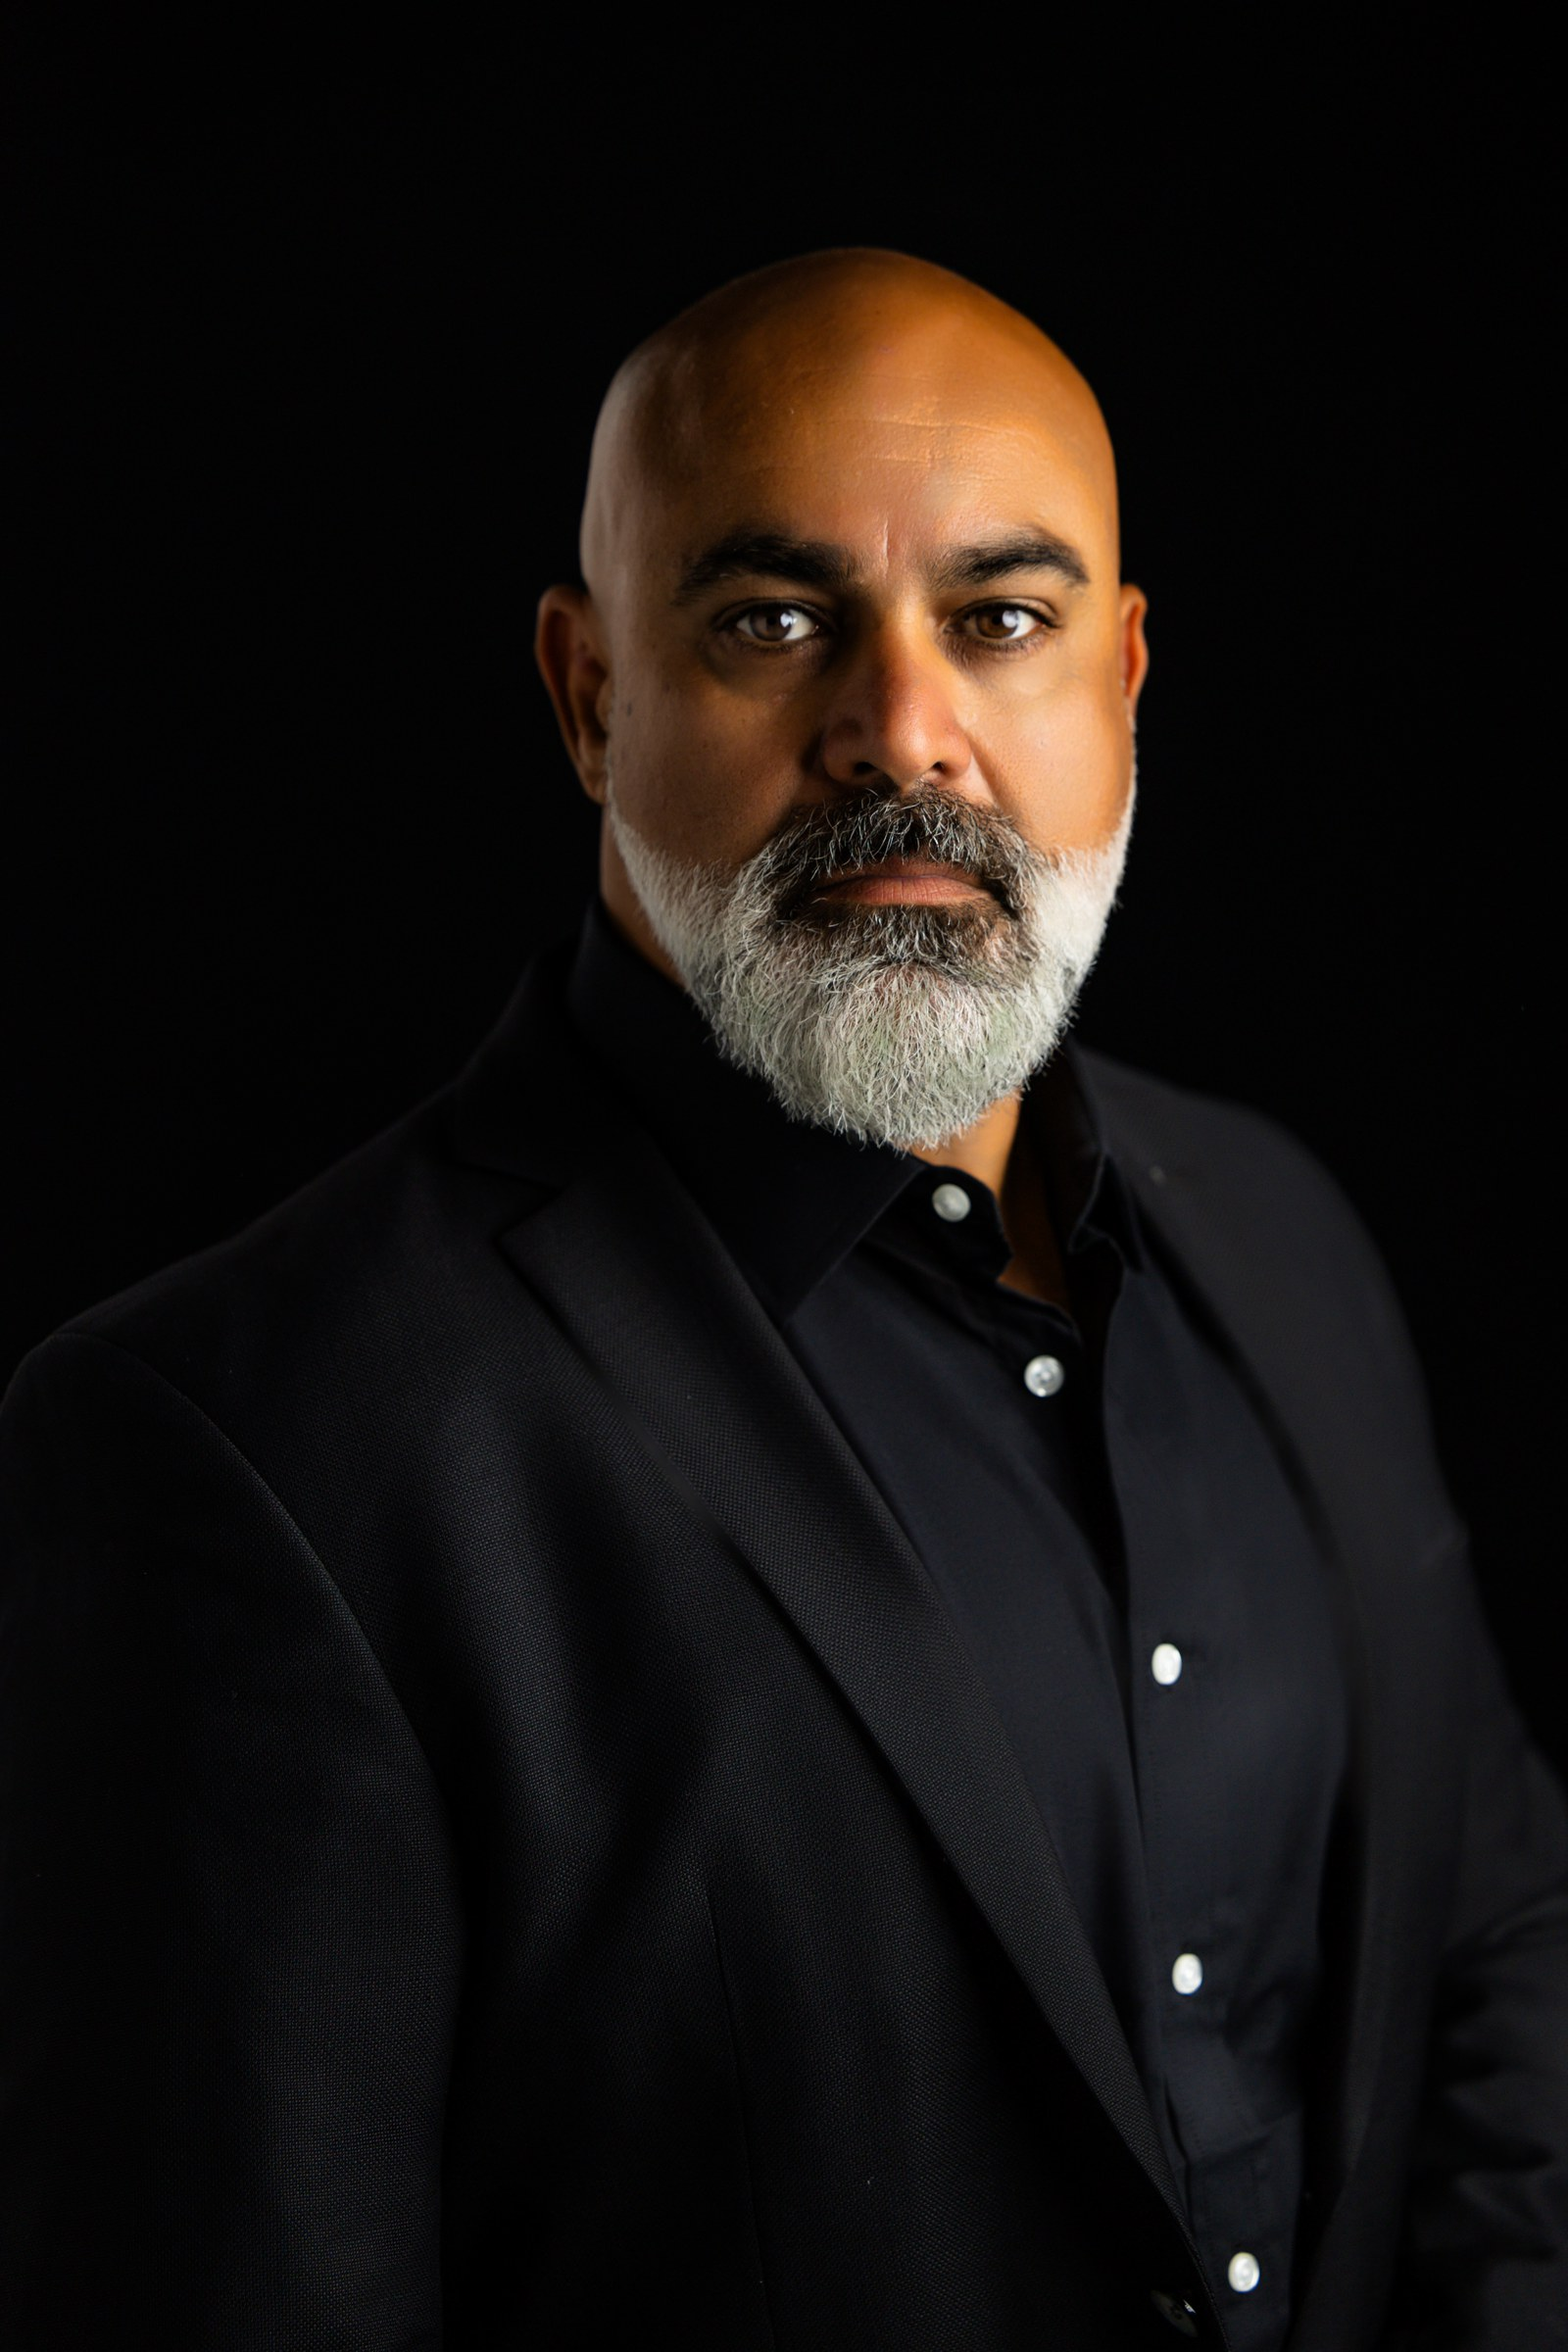
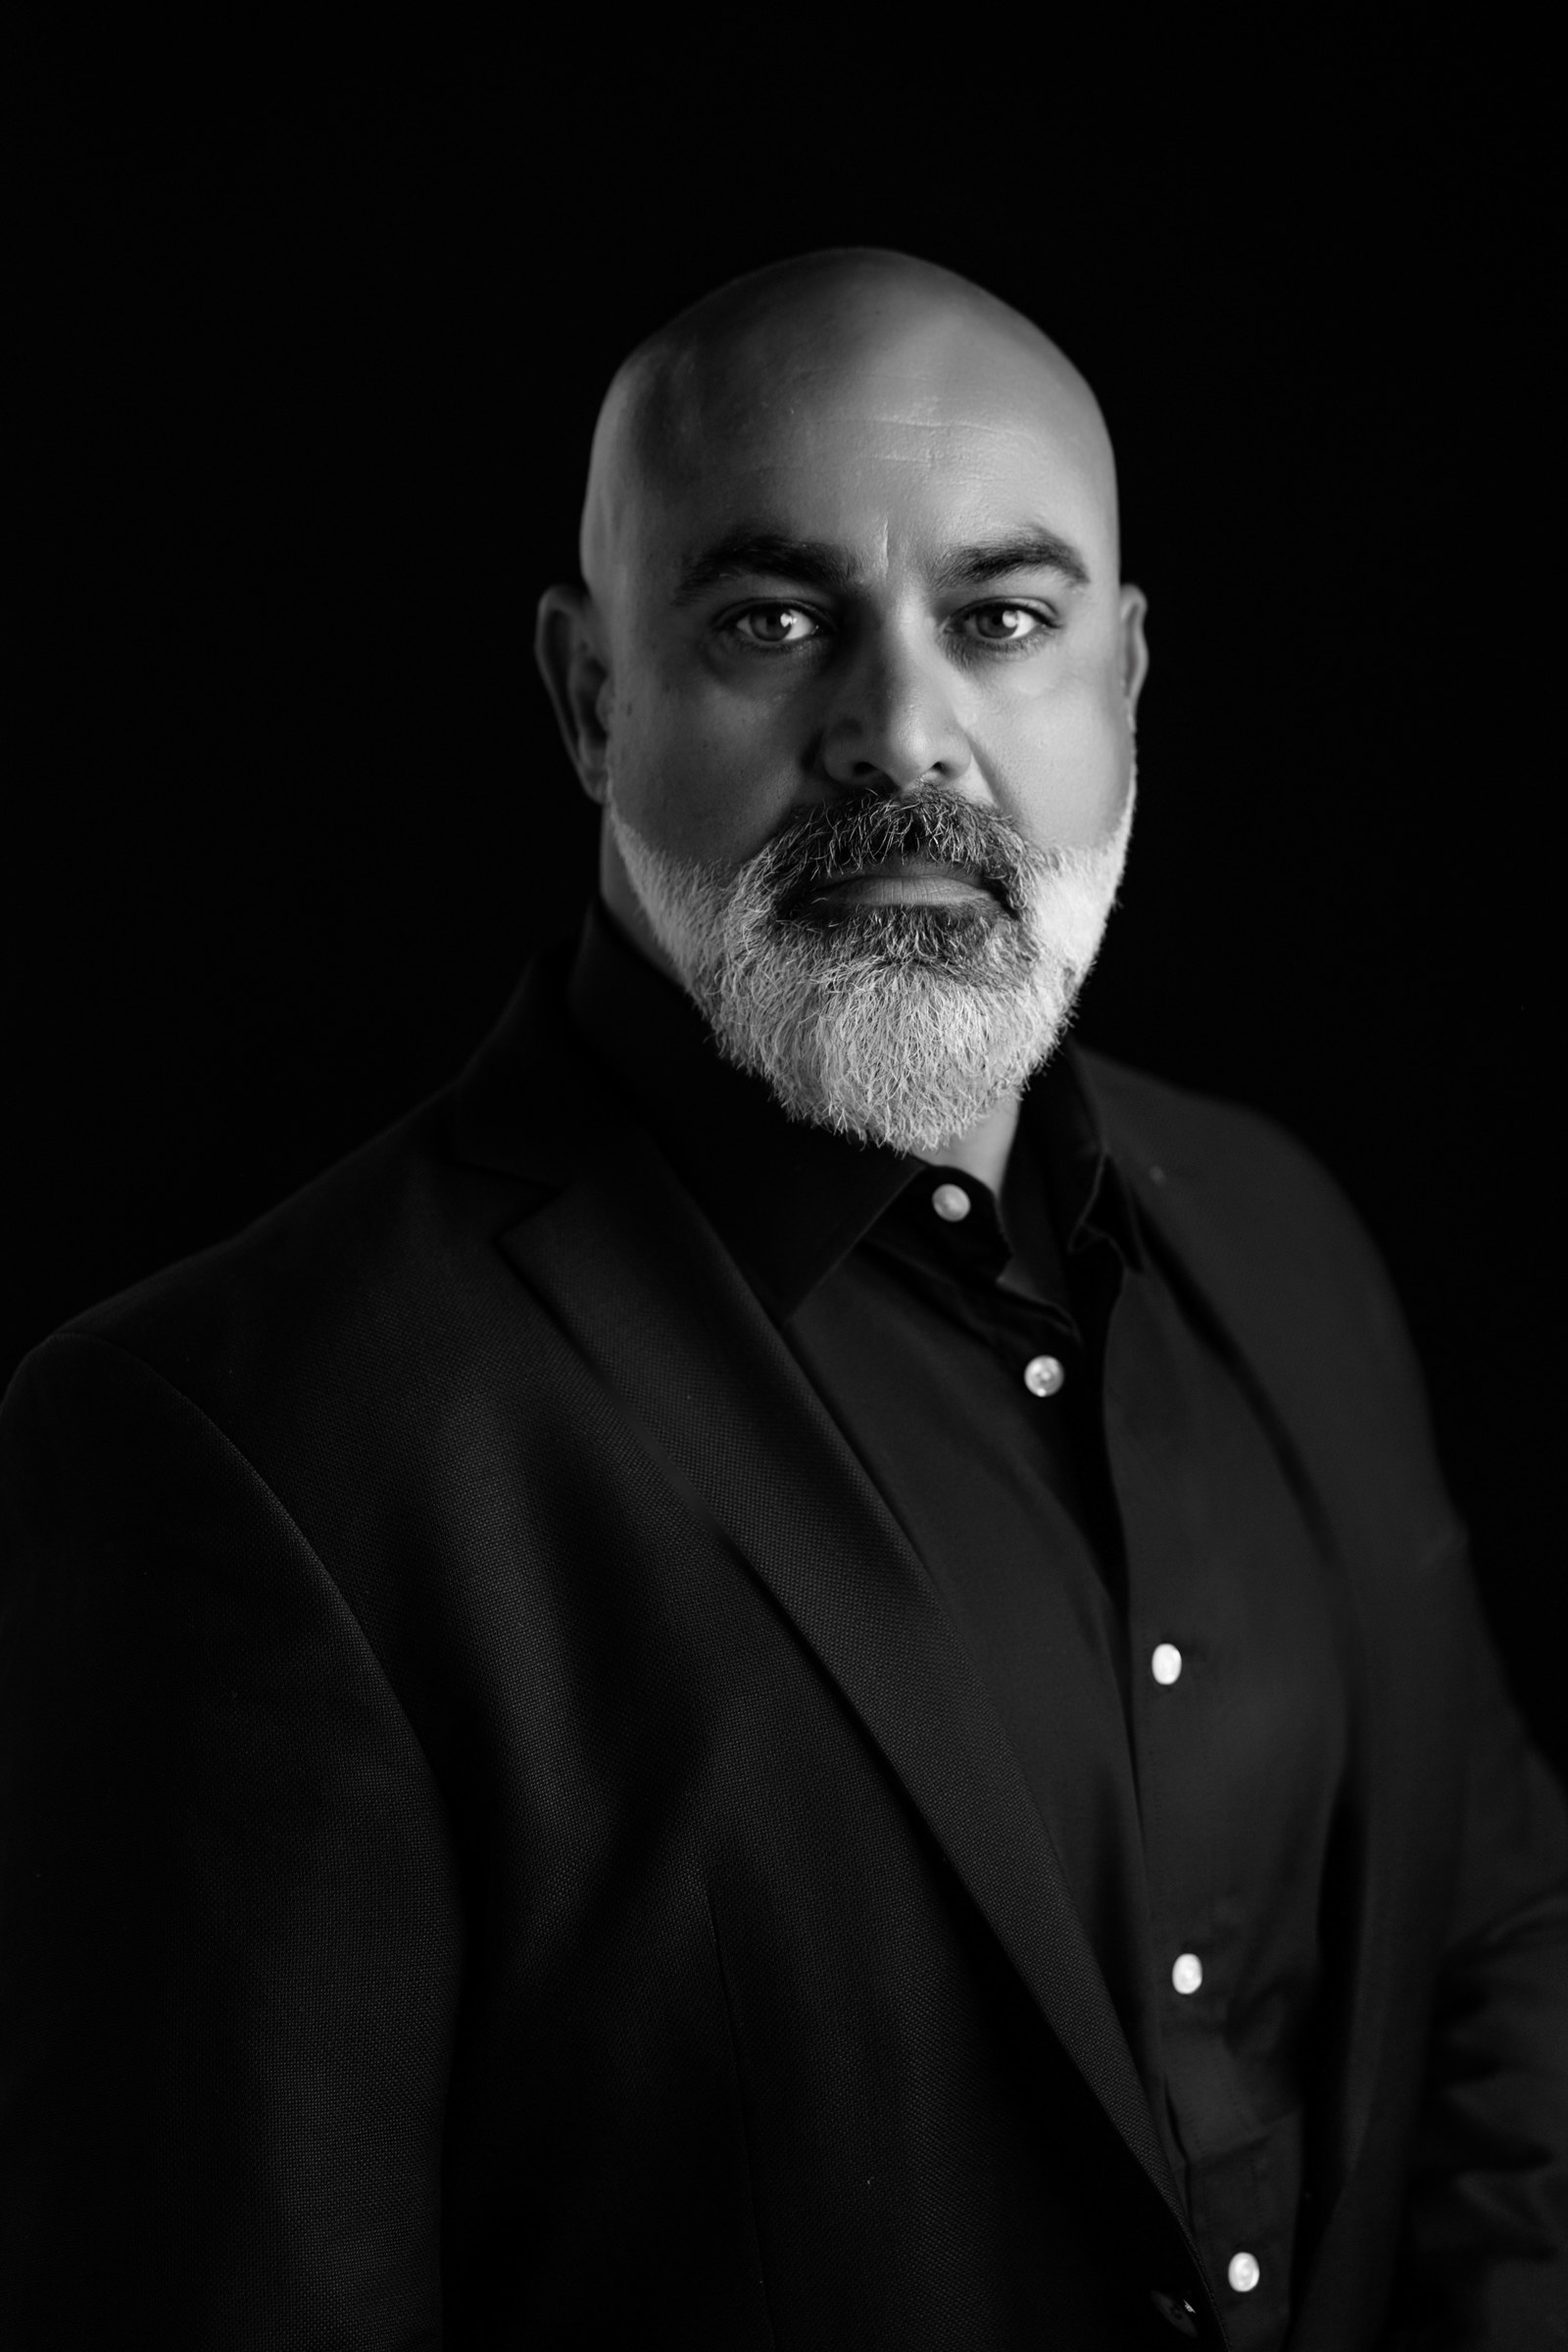
Add Projects/Events pages, restructure nav, add hero headline
- Nav: Home, About, Projects, Get Involved, Books, Events, Contact.
- New /projects page (moved the Ventures list off About, which now
  just links out to it) and a placeholder /events page.
- Home hero: dropped the giant "PARHAM SHARIAT" display headline
  (kept as a visually-hidden h1 for heading-hierarchy/SEO purposes),
  added an "Empower The Next Generation" headline next to the photo.
- About page now uses the b&w primary headshot.

Changed region(s): [[0.3438, 0.0938, 0.75, 0.4375], [0.5938, 0.4688, 0.6562, 0.5], [0.375, 0.375, 0.4062, 0.4062]]

diff --git a/src/app/page.tsx b/src/app/page.tsx
@@ -23,16 +23,12 @@ export default function HomePage() {
       {/* Hero — photo + featured book, side by side */}
       <section className="overflow-hidden bg-invert-bg text-invert-fg">
         <div className="mx-auto max-w-6xl px-4 py-16 sm:px-6 md:py-20">
+          <h1 className="sr-only">Parham Shariat</h1>
           <p className="text-xs font-semibold uppercase tracking-[0.3em] text-invert-fg/50">
             {siteConfig.tagline}
           </p>
-          <h1 className="mt-4 font-display text-7xl font-black uppercase leading-[0.88] tracking-tighter sm:text-8xl lg:text-9xl">
-            Parham
-            <br />
-            Shariat
-          </h1>
 
-          <div className="mt-12 grid items-start justify-center gap-10 sm:grid-cols-[auto_auto] sm:justify-start">
+          <div className="mt-8 grid items-start justify-center gap-10 sm:grid-cols-[auto_auto] sm:justify-start">
             <Image
               src="/images/parham-headshot-glasses-bw.png"
               alt="Portrait of Parham Shariat"
@@ -41,30 +37,39 @@ export default function HomePage() {
               priority
               className="h-[28rem] w-auto justify-self-center object-cover object-top sm:h-[28rem] sm:justify-self-start"
             />
-            <div className="flex flex-col items-center gap-5 sm:items-start">
-              <Image
-                src={featuredBook.coverImage.src}
-                alt={`Book cover for ${featuredBook.title}: ${featuredBook.subtitle}`}
-                width={featuredBook.coverImage.width}
-                height={featuredBook.coverImage.height}
-                className="h-[28rem] w-auto object-contain object-top shadow-2xl transition-transform duration-500 ease-out hover:-translate-y-2"
-              />
-              <div className="text-center sm:text-left">
-                <p className="font-display text-xl font-black uppercase tracking-tight">
-                  {featuredBook.title}
-                </p>
-                <p className="mt-1 text-sm text-invert-fg/60">
-                  {featuredBook.subtitle}
-                </p>
+            <div className="flex flex-col items-center gap-10 sm:items-start">
+              <p className="max-w-md text-center font-display text-5xl font-black uppercase leading-[0.9] tracking-tight sm:text-left sm:text-6xl">
+                Empower
+                <br />
+                The Next
+                <br />
+                Generation
+              </p>
+              <div className="flex flex-col items-center gap-5 sm:items-start">
+                <Image
+                  src={featuredBook.coverImage.src}
+                  alt={`Book cover for ${featuredBook.title}: ${featuredBook.subtitle}`}
+                  width={featuredBook.coverImage.width}
+                  height={featuredBook.coverImage.height}
+                  className="h-56 w-auto object-contain object-top shadow-2xl transition-transform duration-500 ease-out hover:-translate-y-2"
+                />
+                <div className="text-center sm:text-left">
+                  <p className="font-display text-xl font-black uppercase tracking-tight">
+                    {featuredBook.title}
+                  </p>
+                  <p className="mt-1 text-sm text-invert-fg/60">
+                    {featuredBook.subtitle}
+                  </p>
+                </div>
+                <a
+                  href={featuredBook.buyUrl}
+                  target="_blank"
+                  rel="noopener noreferrer"
+                  className="bg-invert-fg px-7 py-3.5 text-sm font-bold uppercase tracking-wide text-invert-bg transition-all duration-200 hover:-translate-y-0.5 hover:opacity-85 active:translate-y-0"
+                >
+                  Buy the Book
+                </a>
               </div>
-              <a
-                href={featuredBook.buyUrl}
-                target="_blank"
-                rel="noopener noreferrer"
-                className="bg-invert-fg px-7 py-3.5 text-sm font-bold uppercase tracking-wide text-invert-bg transition-all duration-200 hover:-translate-y-0.5 hover:opacity-85 active:translate-y-0"
-              >
-                Buy the Book
-              </a>
             </div>
           </div>
         </div>

diff --git a/src/app/about/page.tsx b/src/app/about/page.tsx
@@ -3,7 +3,6 @@ import Link from "next/link";
 import type { Metadata } from "next";
 import Breadcrumbs from "@/components/Breadcrumbs";
 import { authorBios, credentials } from "@/lib/data/author";
-import { ventures } from "@/lib/data/ventures";
 
 export const metadata: Metadata = {
   title: "About Parham Shariat",
@@ -25,10 +24,10 @@ export default function AboutPage() {
         <Breadcrumbs items={[{ name: "About", path: "/about" }]} variant="dark" />
         <div className="mx-auto grid max-w-6xl items-end gap-10 px-4 pb-14 pt-6 sm:px-6 md:grid-cols-[1fr_1.4fr]">
           <Image
-            src="/images/parham-headshot-glasses-bw.png"
+            src="/images/parham-headshot-primary.jpg"
             alt="Portrait of Parham Shariat"
-            width={500}
-            height={750}
+            width={1600}
+            height={2400}
             className="h-72 w-auto object-cover sm:h-96"
           />
           <div>
@@ -60,43 +59,14 @@ export default function AboutPage() {
           ))}
         </ul>
 
-        <h2 className="mt-16 font-display text-2xl font-black uppercase tracking-tight">
-          Ventures
-        </h2>
-        <p className="mt-4 text-base text-foreground/70">
-          Companies and projects Parham has built under ReTHINK CNERGY.
+        <p className="mt-8">
+          <Link
+            href="/projects"
+            className="text-sm font-semibold underline decoration-border underline-offset-4 hover:decoration-foreground"
+          >
+            See the companies and projects Parham has built →
+          </Link>
         </p>
-        <ul className="mt-5 grid gap-4 border-t border-border pt-5 sm:grid-cols-2">
-          {ventures.map((venture) =>
-            venture.url ? (
-              <li key={venture.name}>
-                <a
-                  href={venture.url}
-                  target="_blank"
-                  rel="noopener noreferrer"
-                  className="block border border-border p-4 transition-colors hover:border-foreground"
-                >
-                  <p className="font-display text-base font-black uppercase tracking-tight">
-                    {venture.name}
-                  </p>
-                  <p className="mt-1 text-sm text-foreground/60">
-                    {venture.description}
-                  </p>
-                </a>
-              </li>
-            ) : (
-              <li
-                key={venture.name}
-                className="border border-dashed border-border p-4 text-foreground/50"
-              >
-                <p className="font-display text-base font-black uppercase tracking-tight">
-                  {venture.name}
-                </p>
-                <p className="mt-1 text-sm">{venture.description}</p>
-              </li>
-            ),
-          )}
-        </ul>
 
         <h2 className="mt-16 font-display text-2xl font-black uppercase tracking-tight">
           Credentials

diff --git a/src/app/projects/page.tsx b/src/app/projects/page.tsx
@@ -1,0 +1,59 @@
+import type { Metadata } from "next";
+import Breadcrumbs from "@/components/Breadcrumbs";
+import { ventures } from "@/lib/data/ventures";
+
+export const metadata: Metadata = {
+  title: "Projects",
+  description:
+    "Companies and projects Parham Shariat has built under ReTHINK CNERGY: SiteMarketing.ai, Powerful Blueprints, ReclaimData.ai, and AloHelp.",
+  alternates: { canonical: "/projects" },
+};
+
+export default function ProjectsPage() {
+  return (
+    <>
+      <Breadcrumbs items={[{ name: "Projects", path: "/projects" }]} />
+
+      <section className="mx-auto max-w-6xl px-4 py-12 sm:px-6">
+        <h1 className="font-display text-4xl font-black uppercase tracking-tight sm:text-5xl">
+          Projects
+        </h1>
+        <p className="mt-4 max-w-2xl text-base text-foreground/70">
+          Companies and projects Parham has built under ReTHINK CNERGY.
+        </p>
+
+        <ul className="mt-10 grid gap-6 sm:grid-cols-2">
+          {ventures.map((venture) =>
+            venture.url ? (
+              <li key={venture.name}>
+                <a
+                  href={venture.url}
+                  target="_blank"
+                  rel="noopener noreferrer"
+                  className="block border border-border p-6 transition-all duration-300 ease-out hover:-translate-y-1 hover:border-foreground hover:shadow-xl"
+                >
+                  <p className="font-display text-lg font-black uppercase tracking-tight">
+                    {venture.name}
+                  </p>
+                  <p className="mt-2 text-sm text-foreground/60">
+                    {venture.description}
+                  </p>
+                </a>
+              </li>
+            ) : (
+              <li
+                key={venture.name}
+                className="border border-dashed border-border p-6 text-foreground/50"
+              >
+                <p className="font-display text-lg font-black uppercase tracking-tight">
+                  {venture.name}
+                </p>
+                <p className="mt-2 text-sm">{venture.description}</p>
+              </li>
+            ),
+          )}
+        </ul>
+      </section>
+    </>
+  );
+}

diff --git a/src/app/events/page.tsx b/src/app/events/page.tsx
@@ -1,0 +1,33 @@
+import type { Metadata } from "next";
+import Link from "next/link";
+import Breadcrumbs from "@/components/Breadcrumbs";
+
+export const metadata: Metadata = {
+  title: "Events",
+  description: "Upcoming speaking engagements and events with Parham Shariat.",
+  alternates: { canonical: "/events" },
+};
+
+export default function EventsPage() {
+  return (
+    <>
+      <Breadcrumbs items={[{ name: "Events", path: "/events" }]} />
+
+      <section className="mx-auto max-w-3xl px-4 py-12 sm:px-6">
+        <h1 className="font-display text-4xl font-black uppercase tracking-tight sm:text-5xl">
+          Events
+        </h1>
+        <div className="mt-6 border border-dashed border-border p-6 text-base text-foreground/60">
+          [[PLACEHOLDER — DO NOT PUBLISH]] No events scheduled yet. Content
+          pending from Parham.
+        </div>
+        <Link
+          href="/contact"
+          className="mt-8 inline-block bg-foreground px-7 py-3.5 text-sm font-bold uppercase tracking-wide text-background transition-all duration-200 hover:-translate-y-0.5 hover:opacity-85 active:translate-y-0"
+        >
+          Inquire About Booking Parham
+        </Link>
+      </section>
+    </>
+  );
+}

diff --git a/src/lib/data/site.ts b/src/lib/data/site.ts
@@ -29,21 +29,23 @@ export const siteConfig = {
 export const primaryNav = [
   { label: "Home", href: "/" },
   { label: "About", href: "/about" },
+  { label: "Projects", href: "/projects" },
+  { label: "Get Involved", href: "/social-responsibility" },
   { label: "Books", href: "/books" },
-  { label: "Speaking", href: "/speaking" },
-  { label: "Social Responsibility", href: "/social-responsibility" },
-  { label: "Media", href: "/media" },
+  { label: "Events", href: "/events" },
   { label: "Contact", href: "/contact" },
 ] as const;
 
 export const footerNav = [
   { label: "Home", href: "/" },
   { label: "About", href: "/about" },
+  { label: "Projects", href: "/projects" },
   { label: "Books", href: "/books" },
   { label: "Speaking & Media", href: "/speaking" },
+  { label: "Events", href: "/events" },
   { label: "Testimonials", href: "/testimonials" },
   { label: "Insights", href: "/insights" },
-  { label: "Social Responsibility", href: "/social-responsibility" },
+  { label: "Get Involved", href: "/social-responsibility" },
   { label: "Media", href: "/media" },
   { label: "Contact", href: "/contact" },
 ] as const;
